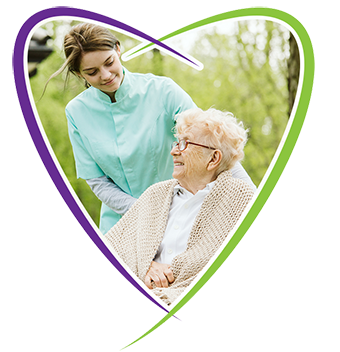
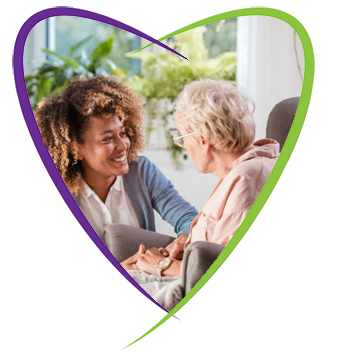
change popup image

diff --git a/assets/Pages/home.html b/assets/Pages/home.html
@@ -1,9 +1,5 @@
-<div>
-  <!-- slider start -->
-  
-  <!-- slider end -->
-  <!-- new slider start -->
-   <section>
+<!-- slider start -->
+<section>
   <div id="slider">
     <!--
     #################################
@@ -13,7 +9,7 @@
 
 
     <div class="fullwidthbanner-container">
-      <div class="fullwidthbanner"style="position: relative;">
+      <div class="fullwidthbanner" style="position: relative;">
         <ul>
           <!-- THE FIRST SLIDE -->
           <li data-transition="3dcurtain-vertical" data-slotamount="10" data-masterspeed="300">
@@ -38,8 +34,8 @@
             </a>
 
             <div class="caption randomrotate" data-x="900" data-y="300" data-speed="600" data-start="1200"
-              data-easing="easeOutExpo" data-end="7000" data-endspeed="300" data-endeasing="easeInSine"><img
-                src="assets/images/sliderPopup.png" alt="Image 1">
+              data-easing="easeOutExpo" data-end="7000" data-endspeed="300" data-endeasing="easeInSine">
+              <img src="assets/images/sliderPopupImg.png" alt="Image 1">
             </div>
 
           </li>
@@ -66,7 +62,6 @@
               data-endeasing="easeInSine">
               GET IN TOUCH
             </a>
-
 
           </li>
 
@@ -97,16 +92,9 @@
       </div>
     </div>
   </div>
-  <!-- End slider -->
-
-</div>
-
-
+  </div>
+</section>
 <!-- End slider -->
-
-</div>
-
-<!-- new slider end -->
 
 <!-- welcome section start-->
 <section class="container py-5">
@@ -243,7 +231,7 @@
       <tr>
         <th>The Venue </th>
         <th>Date</th>
-          <th>Doors Open</th>
+        <th>Doors Open</th>
       </tr>
     </thead>
     <tbody>
